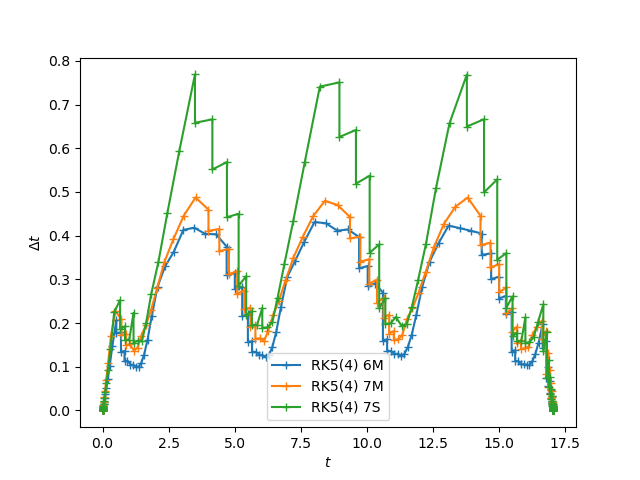
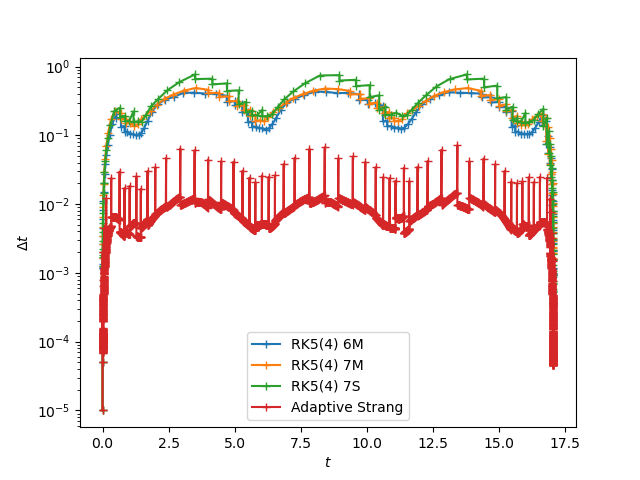
add example with Arentorf orbit

diff --git a/ponio/examples/arenstorf.py b/ponio/examples/arenstorf.py
@@ -39,21 +39,33 @@ class simu_data:
     def time_step(self):
         return self.data[:, -1]
 
+    def norm_l1(self):
+        return np.abs(self.data[:, 1]) + np.abs(self.data[:, 2]) + np.abs(self.data[:, 3]) + np.abs(self.data[:, 4])
+
+    def norm_l2(self):
+        return np.sqrt(np.square(self.data[:, 1]) + np.square(self.data[:, 2]) + np.square(self.data[:, 3]) + np.square(self.data[:, 4]))
+
 
 def load_data(tagname, label):
     return simu_data(label=label, data=np.loadtxt(os.path.join(data_dir, f"{name}_{tagname}.dat")))
 
 
-def plot_orbit(data):
-    plt.plot(data.pos_x(), data.pos_y(), "-+", label=data.label)
+def plot_orbit(data, alpha=1):
+    plt.plot(data.pos_x(), data.pos_y(), "-+", alpha=alpha, label=data.label)
 
 
-def plot_velocity(data):
-    plt.plot(data.vel_x(), data.vel_y(), "-+", label=data.label)
+def plot_velocity(data, alpha=1):
+    plt.plot(data.vel_x(), data.vel_y(), "-+", alpha=alpha, label=data.label)
 
 
-def plot_time_step(data):
-    plt.plot(data.time(), data.time_step(), "-+", label=data.label)
+def plot_time_step(data, alpha=1):
+    plt.plot(data.time(), data.time_step(),
+             "-+", alpha=alpha, label=data.label)
+
+
+def plot_error(data, ref, alpha=1):
+    plt.plot(data.time(), np.abs(data.norm_l2() - np.interp(data.time(),
+             ref.time(), ref.norm_l2())), "-+", alpha=alpha, label=data.label)
 
 
 os.makedirs(data_dir, exist_ok=True)
@@ -65,9 +77,11 @@ args = [os.path.join(".", name)]
 process = subprocess.Popen(args)
 process.wait()
 
+rk118 = load_data("rk118", "RK(11, 8)")
 rk546m = load_data("rk546m", "RK5(4) 6M")
 rk547m = load_data("rk547m", "RK5(4) 7M")
 rk547s = load_data("rk547s", "RK5(4) 7S")
+strang = load_data("adaptive_strang", "Adaptive Strang")
 
 # orbit plot
 plt.rcParams["figure.figsize"] = (6, 6)
@@ -76,6 +90,7 @@ plt.axes().set_aspect('equal', 'box')
 plot_orbit(rk546m)
 plot_orbit(rk547m)
 plot_orbit(rk547s)
+plot_orbit(strang, 0.05)
 
 plt.axhline(0., 0, 1, linestyle="--", color="grey", linewidth=1)
 plt.axvline(0., 0, 1, linestyle="--", color="grey", linewidth=1)
@@ -103,6 +118,7 @@ plt.axes().set_aspect('equal', 'box')
 plot_velocity(rk546m)
 plot_velocity(rk547m)
 plot_velocity(rk547s)
+plot_velocity(strang, 0.05)
 
 plt.axhline(0., 0, 1, linestyle="--", color="grey", linewidth=1)
 plt.axvline(0., 0, 1, linestyle="--", color="grey", linewidth=1)
@@ -127,7 +143,9 @@ plt.rcParams["figure.figsize"] = plt.rcParamsDefault["figure.figsize"]
 plot_time_step(rk546m)
 plot_time_step(rk547m)
 plot_time_step(rk547s)
+plot_time_step(strang)
 
+plt.yscale('log')
 plt.xlabel(r"$t$")
 plt.ylabel(r"$\Delta t$")
 plt.legend()
@@ -135,4 +153,20 @@ plt.legend()
 plt.savefig(os.path.join(data_dir, "03.png"))
 
 plt.title("Arenstorf orbit, time step size")
+plt.show()
+
+# error throw time
+plot_error(rk546m, rk118)
+plot_error(rk547m, rk118)
+plot_error(rk547s, rk118)
+plot_error(strang, rk118, 0.1)
+
+plt.yscale('log')
+plt.xlabel(r"$t$")
+plt.ylabel(r"$\|\cdot\|_2$")
+plt.legend()
+
+plt.savefig(os.path.join(data_dir, "04.png"))
+
+plt.title("Arenstorf orbit, error over time")
 plt.show()

diff --git a/ponio/examples/arenstorf.cpp b/ponio/examples/arenstorf.cpp
@@ -94,9 +94,12 @@ main( int, char** )
 
     double const mu = 0.012277471;
 
-    auto arenstorf_pb = arenstorf_model( mu ); // ponio::make_problem( arenstorf_model( mu ) );
+    auto arenstorf_pb = arenstorf_model( mu );
 
     state_t const yini = { 0.994, 0., 0., -2.00158510637908252240537862224 };
+
+    filename = ( std::filesystem::path( dirname ) / "arenstorf_rk118.dat" ).string();
+    ponio::solve( arenstorf_pb, ponio::runge_kutta::rk_118(), yini, { 0., tf }, dt, ponio::observer::file_observer( filename ) );
 
     filename = ( std::filesystem::path( dirname ) / "arenstorf_rk546m.dat" ).string();
     ponio::solve( arenstorf_pb, ponio::runge_kutta::rk54_6m( 1e-5 ), yini, { 0., tf }, dt, ponio::observer::file_observer( filename ) );
@@ -107,6 +110,7 @@ main( int, char** )
     filename = ( std::filesystem::path( dirname ) / "arenstorf_rk547s.dat" ).string();
     ponio::solve( arenstorf_pb, ponio::runge_kutta::rk54_7s( 1e-5 ), yini, { 0., tf }, dt, ponio::observer::file_observer( filename ) );
 
+    // adaptive Strang method with Lipschitz estimate
     using namespace std::placeholders;
     auto phi_1 = [&]( double t, state_t&& y ) -> state_t
     {

diff --git a/ponio/examples/README.md b/ponio/examples/README.md
@@ -116,9 +116,9 @@ In this example we solve this system with some explicit adaptive time step metho
 |------------------------------------------|---------------------------------------------|
 | ![Arenstorf orbit](img/arenstorf/01.png) | ![Arenstorf velocity](img/arenstorf/02.png) |
 
-| Time step history                          |
-|--------------------------------------------|
-| ![Time step history](img/arenstorf/03.png) |
+| Time step history                          | Error over time                          |
+|--------------------------------------------|------------------------------------------|
+| ![Time step history](img/arenstorf/03.png) | ![Error over time](img/arenstorf/04.png) |
 
 All example in [arenstorf.cpp](https://github.com/hpc-maths/ponio/blob/main/ponio/examples/arenstorf.cpp), and run
 
